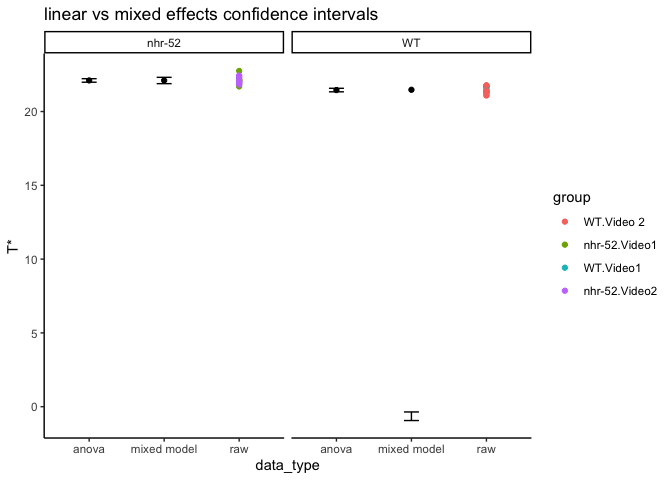
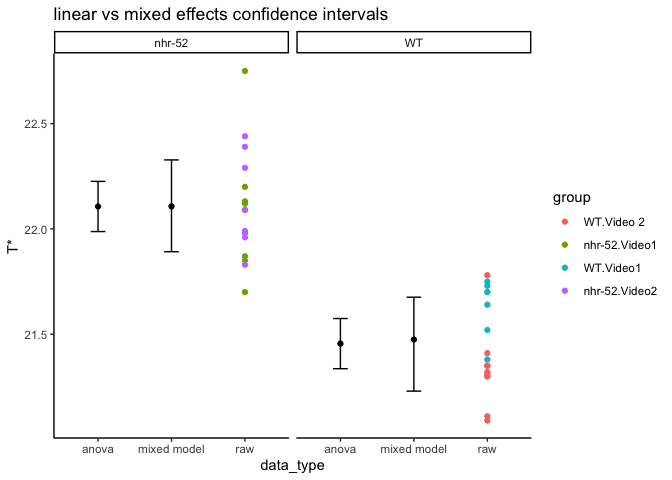
Removed intercept in lmm to make comparison of confints simpler

diff --git a/NathanData.md b/NathanData.md
@@ -84,7 +84,7 @@ lm.anova %>% emmeans::emmeans("genotype") %>%
 #>  contrast    estimate     SE df t.ratio p.value
 #>  nhr-52 - WT    0.651 0.0827 32 7.874   <.0001
 
-lm.group <- Tstar %>% lme4::lmer(data = ., `T*` ~ genotype + (1|group)) 
+lm.group <- Tstar %>% lme4::lmer(data = ., `T*` ~ 0 + genotype + (1|group)) 
 lm.group %>% emmeans::emmeans("genotype") %>% 
   emmeans::contrast(method = "pairwise")
 #>  contrast    estimate   SE  df z.ratio p.value
